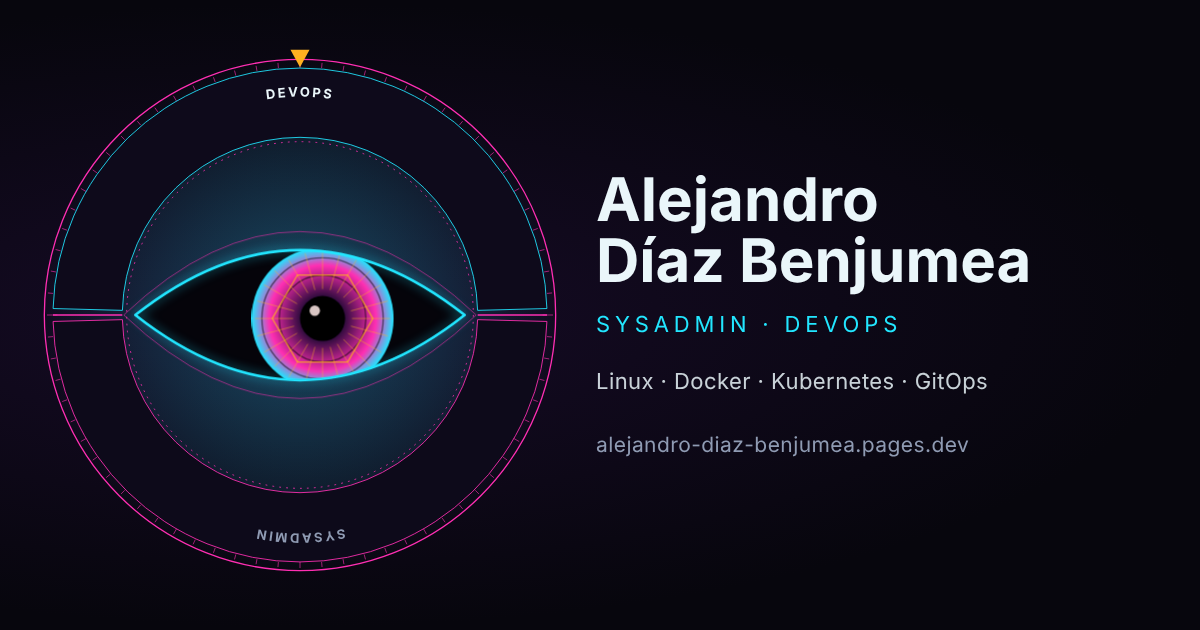
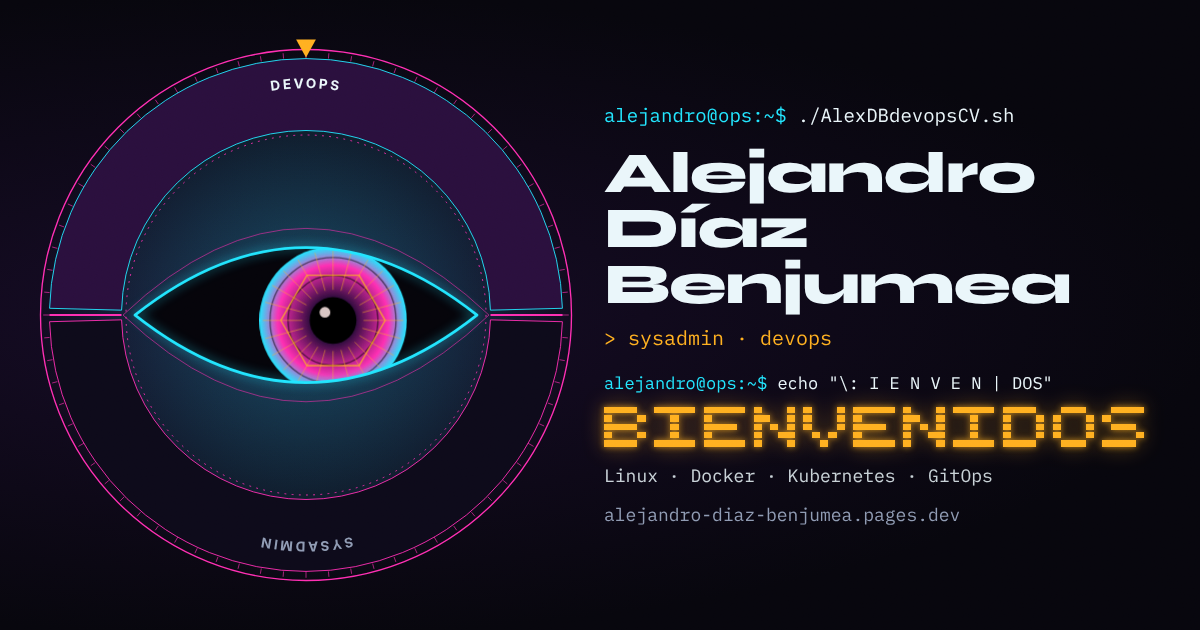
Imagen para redes con el estilo de la v2 y el cartel BIENVENIDOS
Claude-Session: https://claude.ai/code/session_01U1VS1bQ8Qd3zXVxRtKEn7H

diff --git a/tools/render-assets.js b/tools/render-assets.js
@@ -1,32 +1,46 @@
-// Genera static/og.png (1200x630), static/apple-touch-icon.png y static/favicon-32.png.
+// Genera static/og.png (1200x630) con el estilo de la v2, y los iconos apple-touch-icon / favicon-32.
 // Uso: go run . && NODE_PATH=$(npm root -g) node tools/render-assets.js
 const {chromium}=require('playwright');const fs=require('fs');const path=require('path');
-const root=path.resolve(__dirname,'..');
+const root=path.resolve(__dirname,'..'),dist=path.join(root,'dist');
 (async()=>{
-  const html=fs.readFileSync(path.join(root,'dist/index.html'),'utf8');
-  const svg=html.match(/<svg id="art"[\s\S]*?<\/svg>/)[0].replace('id="art"','id="art" width="560" height="560"');
-  const css=fs.readFileSync(path.join(root,'dist/theme.css'),'utf8')+fs.readFileSync(path.join(root,'dist/style.css'),'utf8');
-  const og=`<!doctype html><html lang="en"><head><meta charset="utf-8"><style>${css}
-  html,body{margin:0;width:1200px;height:630px;overflow:hidden}
-  body{background:radial-gradient(ellipse at 25% 50%,var(--bg2) 0,var(--bg) 70%);display:flex;align-items:center;gap:36px;padding:0 64px 0 40px;box-sizing:border-box;font-family:system-ui,-apple-system,"Segoe UI",Roboto,sans-serif}
-  #eyeball{animation:none}#art{width:520px!important;height:520px!important;flex:none;overflow:visible}.seglabel{font-size:15px}
-  .t{min-width:0}.t h1{font-size:60px;line-height:1.02;margin:0;color:var(--bone)}
-  .t p{margin:16px 0 0;color:var(--a);letter-spacing:.22em;text-transform:uppercase;font-size:22px}
-  .t .u{color:var(--mut);letter-spacing:.02em;text-transform:none;font-size:21px;margin-top:28px;white-space:nowrap}
-  .t .k{color:var(--bone);letter-spacing:.02em;text-transform:none;font-size:22px;margin-top:22px;opacity:.85}
-  </style></head><body>${svg}<div class="t"><h1>Alejandro<br>Díaz Benjumea</h1><p>Sysadmin · DevOps</p>
-  <p class="k">Linux · Docker · Kubernetes · GitOps</p><p class="u">alejandro-diaz-benjumea.pages.dev</p></div></body></html>`;
+  const html=fs.readFileSync(path.join(dist,'index.html'),'utf8');
+  const svg=html.match(/<svg id="art"[\s\S]*?<\/svg>/)[0];
+  const banner=html.match(/<div class="banner bt" data-lang="es">([\s\S]*?)<\/div>/)[1];
+  const og=`<!doctype html><html lang="es"><head><meta charset="utf-8">
+<link rel="stylesheet" href="theme.css"><link rel="stylesheet" href="style.css"><link rel="stylesheet" href="variant-a.css">
+<style>
+html,body{margin:0;width:1200px;height:630px;overflow:hidden}
+body.v-a{display:grid;grid-template-columns:540px 1fr;align-items:center;gap:28px;padding:0 56px 0 36px;box-sizing:border-box;
+ background:radial-gradient(ellipse at 22% 50%,var(--bg2) 0,var(--bg) 72%)}
+#art{width:540px!important;height:540px!important;overflow:visible}
+#eyeball{animation:none}
+.t{min-width:0;display:grid;gap:10px}
+.p{font-family:var(--mono);font-size:19px;color:var(--bone)}.p span{color:var(--a)}
+.t h1{font-family:var(--display);font-weight:800;font-size:58px;line-height:.95;letter-spacing:-.02em;margin:6px 0 0;color:var(--bone)}
+.r{font-family:var(--mono);font-size:20px;color:var(--a3)}
+.e{font-family:var(--mono);font-size:17px;color:var(--bone);margin-top:6px}.e span{color:var(--a)}
+.b{color:var(--a3)}.b svg{display:block;width:100%;height:auto;fill:currentColor;filter:blur(.35px) drop-shadow(0 0 3px color-mix(in srgb,var(--a3) 70%,transparent)) drop-shadow(0 0 10px color-mix(in srgb,var(--a3) 40%,transparent))}
+.k{font-family:var(--mono);font-size:18px;color:var(--bone);opacity:.85;margin-top:4px}
+.u{font-family:var(--mono);font-size:18px;color:var(--mut)}
+</style></head><body class="v-a">${svg}
+<div class="t"><div class="p"><span>alejandro@ops:~$</span> ./AlexDBdevopsCV.sh</div>
+<h1>Alejandro<br>Díaz Benjumea</h1><div class="r">&gt; sysadmin · devops</div>
+<div class="e"><span>alejandro@ops:~$</span> echo "\\: I E N V E N | DOS"</div><div class="b">${banner}</div>
+<div class="k">Linux · Docker · Kubernetes · GitOps</div><div class="u">alejandro-diaz-benjumea.pages.dev</div></div></body></html>`;
+  const tmp=path.join(dist,'_og.html');fs.writeFileSync(tmp,og);
   const b=await chromium.launch({executablePath:'/opt/pw-browsers/chromium'});
   const p=await b.newPage({viewport:{width:1200,height:630}});
-  await p.setContent(og);
-  await p.evaluate(()=>{document.getElementById('disc').style.transition='none';document.getElementById('disc').style.transform='rotate(-90deg)';
-    document.querySelectorAll('.sector')[0].classList.add('on');document.getElementById('iris').setAttribute('transform','translate(26 4)')});
+  await p.goto('file://'+tmp);await p.evaluate(()=>document.fonts.ready);
+  await p.evaluate(()=>{const d=document.getElementById('disc');d.style.transition='none';d.style.transform='rotate(-90deg)';
+    document.querySelectorAll('.sector')[0].classList.add('on');document.getElementById('iris').setAttribute('transform','translate(30 6)')});
+  await p.waitForTimeout(300);
   await p.screenshot({path:path.join(root,'static/og.png')});
+  fs.unlinkSync(tmp);
   const fav=fs.readFileSync(path.join(root,'static/favicon.svg'),'utf8');
   for(const [n,s] of [['apple-touch-icon.png',180],['favicon-32.png',32]]){
     const q=await b.newPage({viewport:{width:s,height:s}});
     await q.setContent(`<html><body style="margin:0;background:#07060d">${fav.replace('<svg ','<svg width="'+s+'" height="'+s+'" ')}</body></html>`);
-    await q.screenshot({path:path.join(root,'static',n),omitBackground:false});
+    await q.screenshot({path:path.join(root,'static',n)});
   }
   await b.close();console.log('ok');
 })();
